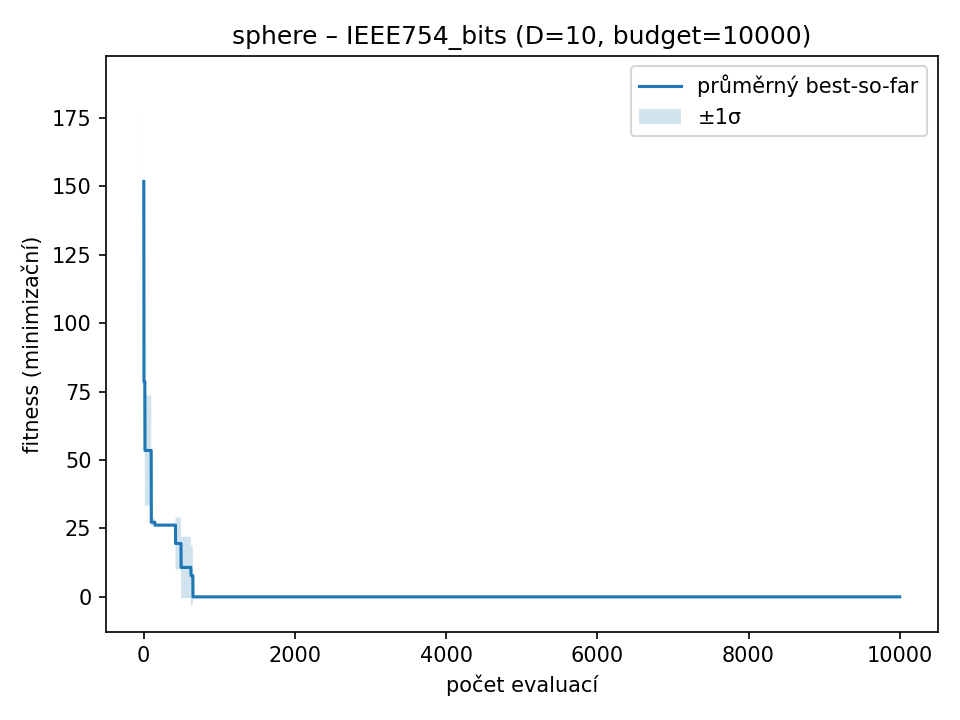
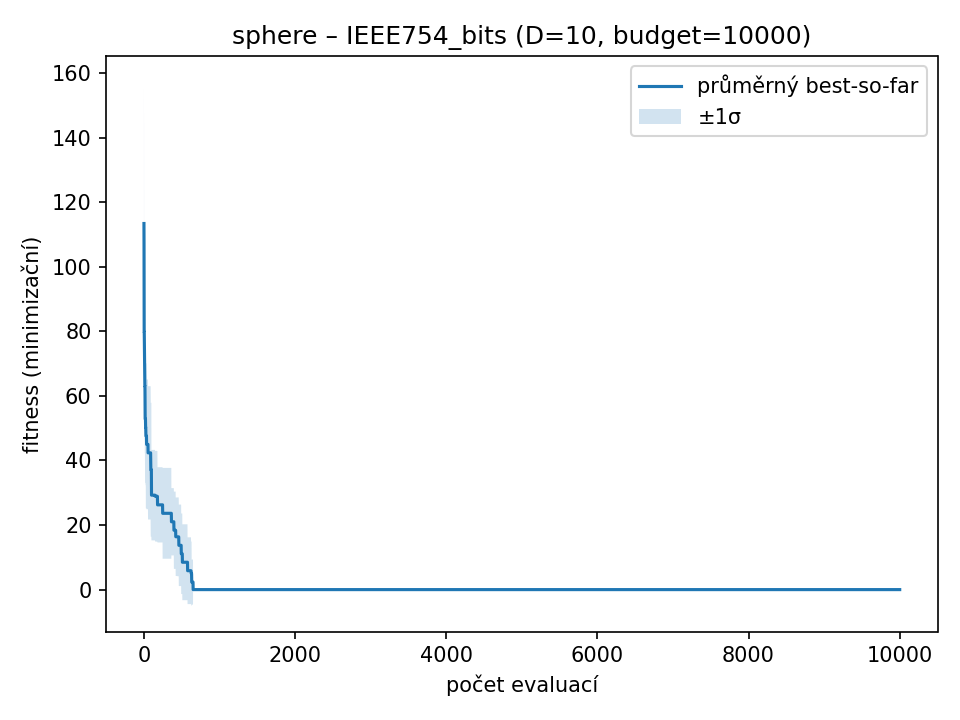
Update experiment configuration to increase runs from 3 to 10 and adjust README statistics accordingly

diff --git a/deneticky_algoritmus_real/readme_generator.py b/deneticky_algoritmus_real/readme_generator.py
@@ -11,15 +11,13 @@ OUT_FILE = "readme.md"
 ZAVER = """\
 ## Závěr
 
-Výsledky potvrzují rozdíly mezi bitovými a reálnými variantami genetického algoritmu:
+Předpokládal jsem, že nejlépe si povede varianta s Gaussovskou mutací, protože pracuje s reálnými hodnotami a umožňuje jemné dolaďování řešení.
+Výsledky mě ale překvapily – nejčastěji nejlepších výsledků dosáhla varianta IEEE754_bits, která používá bitovou reprezentaci čísel ve formátu float32.
 
-- **Bitové reprezentace (IEEE754, FixedPoint, BCD)** trpí kvantizační chybou a nelineárním mapováním, což vede ke stagnaci a vyšším hodnotám fitness.
-- **Reálné varianty GA** (Gaussovská a náhodná mutace) vykazují hladší konvergenci a nižší výsledné chyby.
-- **Gaussian mutace** se osvědčila u spojitých a konvexních funkcí (Sphere), zatímco **RandomReset** lépe prozkoumává prostor u multimodálních funkcí (Schwefel).
-- U **Rosenbrocka** je vidět stabilní konvergence, ale obtížný posun úzkým údolím bez gradientní informace.
-
-Celkově jsou reálné reprezentace vhodnější pro optimalizaci v reálné doméně, zatímco bitové slouží spíše k experimentálnímu srovnání a demonstraci vlivu kódování.
+Tato varianta se ukázala jako velmi přesná, hlavně u jednodušších funkcí (Sphere, Rosenbrock), zatímco reálné varianty měly větší rozptyl výsledků.
+U složitější funkce Schwefel se nejlépe dařilo BCD reprezentaci, pravděpodobně díky větším skokům v prostoru, které pomáhají vyhnout se lokálním minimům.
 """
+
 
 # --- Načtení main.py jako modulu ---
 def load_main_config(file_path):
@@ -28,13 +26,16 @@ def load_main_config(file_path):
     spec.loader.exec_module(mod)
     return mod
 
+
 # --- Oprava cest obrázků ---
 def fix_image_paths(content: str, rel_dir: str) -> str:
     def repl(match):
         alt, path = match.groups()
         fixed = os.path.join(rel_dir, path).replace("\\", "/")
         return f"![{alt}]({fixed})"
+
     return re.sub(r"!\[([^\]]*)\]\(([^)]+)\)", repl, content)
+
 
 # --- Načtení všech stats.md ---
 def read_all_stats(root):
@@ -53,6 +54,7 @@ def read_all_stats(root):
                 fixed_content = fix_image_paths(content, rel_dir)
                 combined.append(f"## {func_dir.upper()}\n\n{fixed_content}\n")
     return "\n\n".join(combined)
+
 
 # --- Generování hlavičky + popisů ---
 def make_header(cfg):
@@ -87,7 +89,7 @@ def make_header(cfg):
         f"- **Reálné varianty:** každá dimenze má pravděpodobnost `{cfg.P_MUT_REAL}` na mutaci, přičemž se používají dvě metody:"
     )
     lines.append(
-        f"  - **Gaussian mutace:** hodnota se posune o N(0, σ²), kde σ = {cfg.GAUSS_SIGMA_FRAC*100:.1f}% rozsahu proměnné. "
+        f"  - **Gaussian mutace:** hodnota se posune o N(0, σ²), kde σ = {cfg.GAUSS_SIGMA_FRAC * 100:.1f}% rozsahu proměnné. "
         "Zajišťuje jemné ladění řešení v lokálním okolí."
     )
     lines.append(
@@ -126,6 +128,7 @@ def make_header(cfg):
     lines.append("\n---\n")
     return "\n".join(lines)
 
+
 # --- Hlavní funkce ---
 def main():
     if not os.path.exists(MAIN_FILE):
@@ -142,6 +145,7 @@ def main():
         f.write(ZAVER)
 
     print(f"✅ Souhrnný report uložen jako: {OUT_FILE}")
+
 
 if __name__ == "__main__":
     main()

diff --git a/deneticky_algoritmus_real/main.py b/deneticky_algoritmus_real/main.py
@@ -6,7 +6,7 @@ import matplotlib.pyplot as plt
 RNG_SEED = 42
 np.random.seed(RNG_SEED)
 
-RUNS = 3
+RUNS = 10
 D = 10
 EVAL_BUDGET = 10_000
 POP_SIZE = 200
@@ -74,7 +74,6 @@ def save_stats_md(problem, results, path):
 
 # GA operátory
 def rank_selection(fitness):
-    """Vybere index jedince podle hodnocení (menší = lepší)."""
     ranks = np.argsort(fitness)
     probs = np.linspace(1, len(fitness), len(fitness))
     probs = probs / np.sum(probs)
@@ -82,7 +81,6 @@ def rank_selection(fitness):
 
 
 def crossover(p1, p2):
-    """Single-point crossover mezi dimenzemi."""
     point = np.random.randint(1, len(p1))
     return np.concatenate([p1[:point], p2[point:]]), np.concatenate([p2[:point], p1[point:]])
 

diff --git a/deneticky_algoritmus_real/readme.md b/deneticky_algoritmus_real/readme.md
@@ -1,10 +1,10 @@
 # Souhrnný report genetického algoritmu (GA)
-**Datum generování:** 2025-10-14 17:23:39
+**Datum generování:** 2025-10-14 17:41:03
 
 ## Nastavení experimentu
 
 - RNG_SEED = `42`
-- Počet běhů = `3`
+- Počet běhů = `10`
 - Dimenze (D) = `10`
 - Počet evaluací (budget) = `10000`
 - Velikost populace = `200`
@@ -38,15 +38,15 @@ sphere, rosenbrock, schwefel
 ---
 ## SPHERE
 
-### sphere – D=10, budget=10000, runs=3
+### sphere – D=10, budget=10000, runs=10
 
 | Varianta | best | worst | mean | median | std |
 |-----------|-------|-------|------|--------|------|
 | **IEEE754_bits** | **0.0000** | **0.0000** | **0.0000** | **0.0000** | **0.0000** |
-| FixedPoint_bits | 209.7152 | 209.7157 | 209.7154 | 209.7154 | 0.0002 |
-| BCD_bits | 0.1620 | 0.2277 | 0.1898 | 0.1796 | 0.0278 |
-| Real_Gauss | 0.0035 | 0.0076 | 0.0052 | 0.0046 | 0.0017 |
-| Real_RandomReset | 0.0580 | 0.1246 | 0.0847 | 0.0715 | 0.0287 |
+| FixedPoint_bits | 192.5742 | 235.9296 | 214.5038 | 209.7309 | 15.0625 |
+| BCD_bits | 0.0113 | 0.2076 | 0.0645 | 0.0530 | 0.0535 |
+| Real_Gauss | 0.0024 | 0.0155 | 0.0088 | 0.0083 | 0.0039 |
+| Real_RandomReset | 0.0298 | 0.2568 | 0.1383 | 0.1278 | 0.0657 |
 
 | IEEE754_bits | FixedPoint_bits | BCD_bits | Real_Gauss | Real_RandomReset |
 | --- | --- | --- | --- | --- |
@@ -55,15 +55,15 @@ sphere, rosenbrock, schwefel
 
 ## ROSENBROCK
 
-### rosenbrock – D=10, budget=10000, runs=3
+### rosenbrock – D=10, budget=10000, runs=10
 
 | Varianta | best | worst | mean | median | std |
 |-----------|-------|-------|------|--------|------|
-| **IEEE754_bits** | **8.3410** | **8.8217** | **8.5037** | **8.3486** | **0.2248** |
-| FixedPoint_bits | 628024.8758 | 742824.0000 | 688712.6507 | 695289.0763 | 47096.6861 |
-| BCD_bits | 73.6250 | 296.1030 | 168.8436 | 136.8028 | 93.6094 |
-| Real_Gauss | 7.2800 | 164.1191 | 60.6161 | 10.4493 | 73.1991 |
-| Real_RandomReset | 44.0776 | 73.0190 | 59.1837 | 60.4544 | 11.8494 |
+| **IEEE754_bits** | **8.3505** | **8.8165** | **8.6578** | **8.7614** | **0.1969** |
+| FixedPoint_bits | 374943.6353 | 742824.0000 | 607951.3262 | 625523.1817 | 105092.5129 |
+| BCD_bits | 48.6439 | 273.9253 | 175.3783 | 168.9099 | 60.9190 |
+| Real_Gauss | 9.1093 | 27.1451 | 14.0887 | 12.0019 | 5.2516 |
+| Real_RandomReset | 30.6240 | 156.0426 | 91.3999 | 92.3007 | 35.3104 |
 
 | IEEE754_bits | FixedPoint_bits | BCD_bits | Real_Gauss | Real_RandomReset |
 | --- | --- | --- | --- | --- |
@@ -72,15 +72,15 @@ sphere, rosenbrock, schwefel
 
 ## SCHWEFEL
 
-### schwefel – D=10, budget=10000, runs=3
+### schwefel – D=10, budget=10000, runs=10
 
 | Varianta | best | worst | mean | median | std |
 |-----------|-------|-------|------|--------|------|
-| IEEE754_bits | 1437.8279 | 2146.0024 | 1897.5727 | 2108.8877 | 325.4416 |
-| FixedPoint_bits | 1729.5022 | 1913.6272 | 1849.6783 | 1905.9054 | 85.0358 |
-| **BCD_bits** | **6.6718** | **16.8440** | **10.4870** | **7.9452** | **4.5251** |
-| Real_Gauss | 14.5433 | 122.1605 | 51.5211 | 17.8596 | 49.9679 |
-| Real_RandomReset | 18.7224 | 86.5308 | 57.5752 | 67.4725 | 28.5536 |
+| IEEE754_bits | 1609.5940 | 2176.7617 | 1918.7108 | 1914.4968 | 172.4852 |
+| FixedPoint_bits | 1476.3828 | 1913.2094 | 1697.9429 | 1683.9743 | 138.3659 |
+| **BCD_bits** | **3.6658** | **17.4658** | **10.0753** | **10.5058** | **4.7065** |
+| Real_Gauss | 3.1844 | 369.9057 | 77.9084 | 6.7505 | 123.2230 |
+| Real_RandomReset | 13.8739 | 113.1372 | 58.9407 | 61.6960 | 25.2869 |
 
 | IEEE754_bits | FixedPoint_bits | BCD_bits | Real_Gauss | Real_RandomReset |
 | --- | --- | --- | --- | --- |
@@ -91,11 +91,8 @@ sphere, rosenbrock, schwefel
 
 ## Závěr
 
-Výsledky potvrzují rozdíly mezi bitovými a reálnými variantami genetického algoritmu:
+Předpokládal jsem, že nejlépe si povede varianta s Gaussovskou mutací, protože pracuje s reálnými hodnotami a umožňuje jemné dolaďování řešení.
+Výsledky mě ale překvapily – nejčastěji nejlepších výsledků dosáhla varianta IEEE754_bits, která používá bitovou reprezentaci čísel ve formátu float32.
 
-- **Bitové reprezentace (IEEE754, FixedPoint, BCD)** trpí kvantizační chybou a nelineárním mapováním, což vede ke stagnaci a vyšším hodnotám fitness.
-- **Reálné varianty GA** (Gaussovská a náhodná mutace) vykazují hladší konvergenci a nižší výsledné chyby.
-- **Gaussian mutace** se osvědčila u spojitých a konvexních funkcí (Sphere), zatímco **RandomReset** lépe prozkoumává prostor u multimodálních funkcí (Schwefel).
-- U **Rosenbrocka** je vidět stabilní konvergence, ale obtížný posun úzkým údolím bez gradientní informace.
-
-Celkově jsou reálné reprezentace vhodnější pro optimalizaci v reálné doméně, zatímco bitové slouží spíše k experimentálnímu srovnání a demonstraci vlivu kódování.
+Tato varianta se ukázala jako velmi přesná, hlavně u jednodušších funkcí (Sphere, Rosenbrock), zatímco reálné varianty měly větší rozptyl výsledků.
+U složitější funkce Schwefel se nejlépe dařilo BCD reprezentaci, pravděpodobně díky větším skokům v prostoru, které pomáhají vyhnout se lokálním minimům.

diff --git a/deneticky_algoritmus_real/charts/rosenbrock/D10/stats.md b/deneticky_algoritmus_real/charts/rosenbrock/D10/stats.md
@@ -1,12 +1,12 @@
-### rosenbrock – D=10, budget=10000, runs=3
+### rosenbrock – D=10, budget=10000, runs=10
 
 | Varianta | best | worst | mean | median | std |
 |-----------|-------|-------|------|--------|------|
-| **IEEE754_bits** | **8.3410** | **8.8217** | **8.5037** | **8.3486** | **0.2248** |
-| FixedPoint_bits | 628024.8758 | 742824.0000 | 688712.6507 | 695289.0763 | 47096.6861 |
-| BCD_bits | 73.6250 | 296.1030 | 168.8436 | 136.8028 | 93.6094 |
-| Real_Gauss | 7.2800 | 164.1191 | 60.6161 | 10.4493 | 73.1991 |
-| Real_RandomReset | 44.0776 | 73.0190 | 59.1837 | 60.4544 | 11.8494 |
+| **IEEE754_bits** | **8.3505** | **8.8165** | **8.6578** | **8.7614** | **0.1969** |
+| FixedPoint_bits | 374943.6353 | 742824.0000 | 607951.3262 | 625523.1817 | 105092.5129 |
+| BCD_bits | 48.6439 | 273.9253 | 175.3783 | 168.9099 | 60.9190 |
+| Real_Gauss | 9.1093 | 27.1451 | 14.0887 | 12.0019 | 5.2516 |
+| Real_RandomReset | 30.6240 | 156.0426 | 91.3999 | 92.3007 | 35.3104 |
 
 | IEEE754_bits | FixedPoint_bits | BCD_bits | Real_Gauss | Real_RandomReset |
 | --- | --- | --- | --- | --- |

diff --git a/deneticky_algoritmus_real/charts/schwefel/D10/stats.md b/deneticky_algoritmus_real/charts/schwefel/D10/stats.md
@@ -1,12 +1,12 @@
-### schwefel – D=10, budget=10000, runs=3
+### schwefel – D=10, budget=10000, runs=10
 
 | Varianta | best | worst | mean | median | std |
 |-----------|-------|-------|------|--------|------|
-| IEEE754_bits | 1437.8279 | 2146.0024 | 1897.5727 | 2108.8877 | 325.4416 |
-| FixedPoint_bits | 1729.5022 | 1913.6272 | 1849.6783 | 1905.9054 | 85.0358 |
-| **BCD_bits** | **6.6718** | **16.8440** | **10.4870** | **7.9452** | **4.5251** |
-| Real_Gauss | 14.5433 | 122.1605 | 51.5211 | 17.8596 | 49.9679 |
-| Real_RandomReset | 18.7224 | 86.5308 | 57.5752 | 67.4725 | 28.5536 |
+| IEEE754_bits | 1609.5940 | 2176.7617 | 1918.7108 | 1914.4968 | 172.4852 |
+| FixedPoint_bits | 1476.3828 | 1913.2094 | 1697.9429 | 1683.9743 | 138.3659 |
+| **BCD_bits** | **3.6658** | **17.4658** | **10.0753** | **10.5058** | **4.7065** |
+| Real_Gauss | 3.1844 | 369.9057 | 77.9084 | 6.7505 | 123.2230 |
+| Real_RandomReset | 13.8739 | 113.1372 | 58.9407 | 61.6960 | 25.2869 |
 
 | IEEE754_bits | FixedPoint_bits | BCD_bits | Real_Gauss | Real_RandomReset |
 | --- | --- | --- | --- | --- |

diff --git a/deneticky_algoritmus_real/charts/sphere/D10/stats.md b/deneticky_algoritmus_real/charts/sphere/D10/stats.md
@@ -1,12 +1,12 @@
-### sphere – D=10, budget=10000, runs=3
+### sphere – D=10, budget=10000, runs=10
 
 | Varianta | best | worst | mean | median | std |
 |-----------|-------|-------|------|--------|------|
 | **IEEE754_bits** | **0.0000** | **0.0000** | **0.0000** | **0.0000** | **0.0000** |
-| FixedPoint_bits | 209.7152 | 209.7157 | 209.7154 | 209.7154 | 0.0002 |
-| BCD_bits | 0.1620 | 0.2277 | 0.1898 | 0.1796 | 0.0278 |
-| Real_Gauss | 0.0035 | 0.0076 | 0.0052 | 0.0046 | 0.0017 |
-| Real_RandomReset | 0.0580 | 0.1246 | 0.0847 | 0.0715 | 0.0287 |
+| FixedPoint_bits | 192.5742 | 235.9296 | 214.5038 | 209.7309 | 15.0625 |
+| BCD_bits | 0.0113 | 0.2076 | 0.0645 | 0.0530 | 0.0535 |
+| Real_Gauss | 0.0024 | 0.0155 | 0.0088 | 0.0083 | 0.0039 |
+| Real_RandomReset | 0.0298 | 0.2568 | 0.1383 | 0.1278 | 0.0657 |
 
 | IEEE754_bits | FixedPoint_bits | BCD_bits | Real_Gauss | Real_RandomReset |
 | --- | --- | --- | --- | --- |
